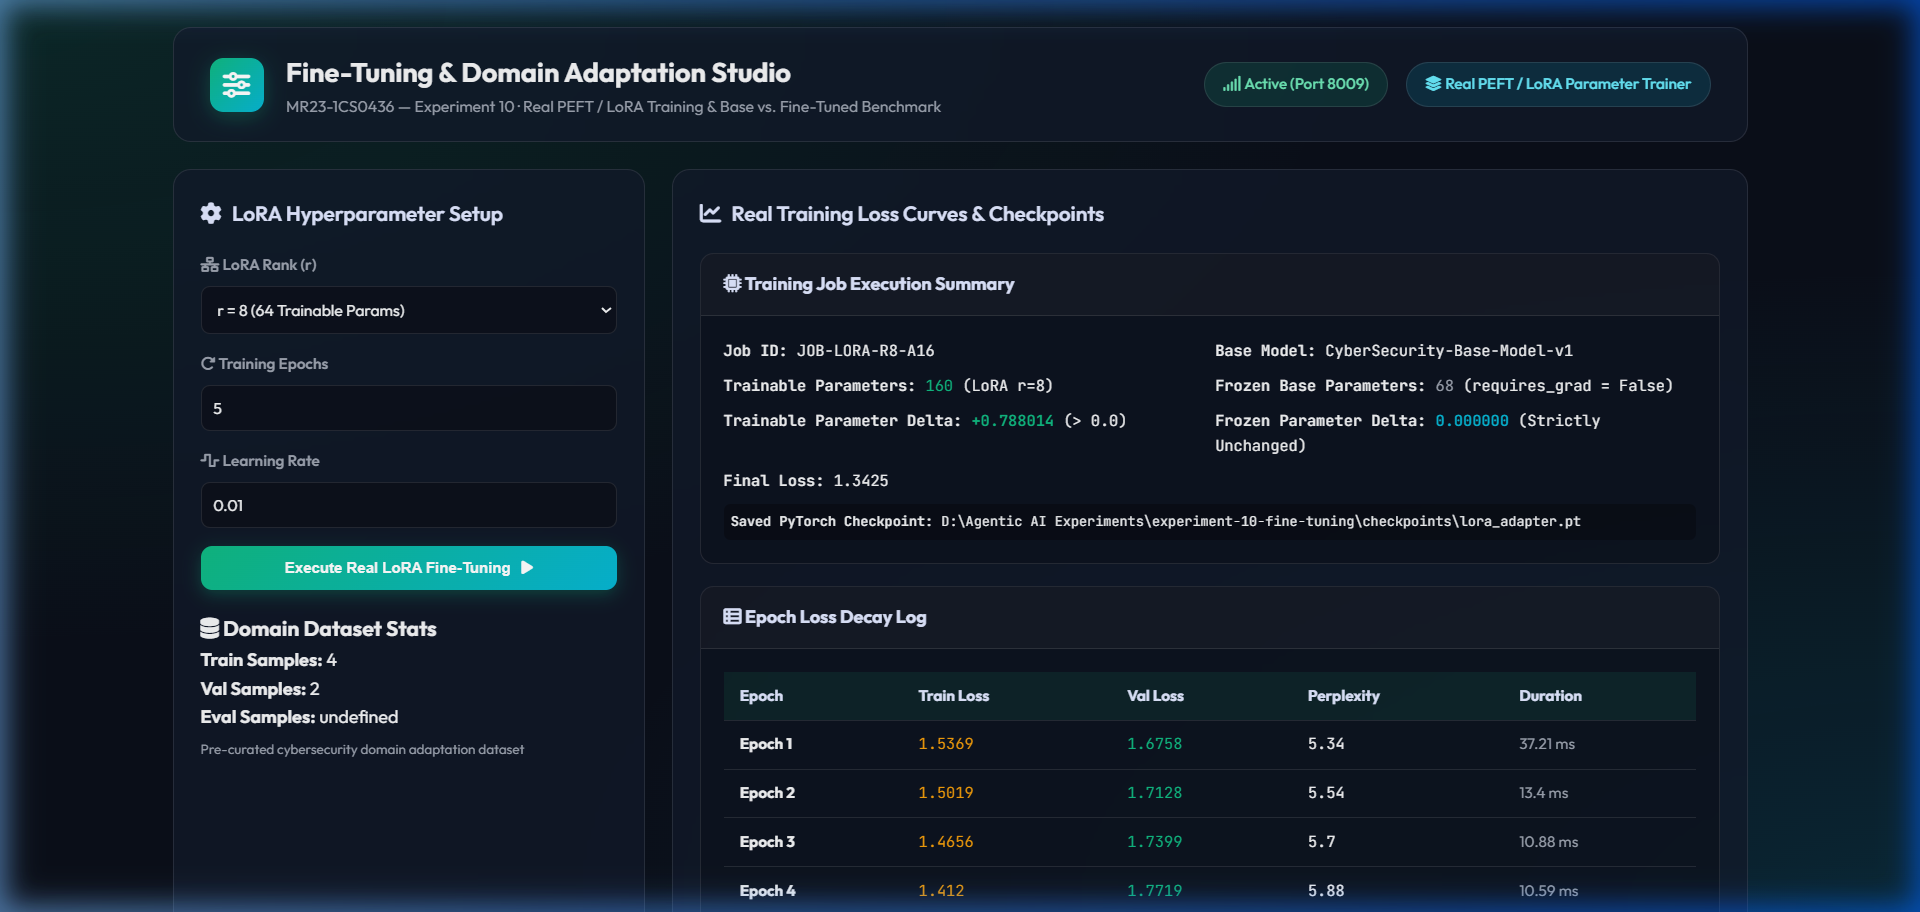
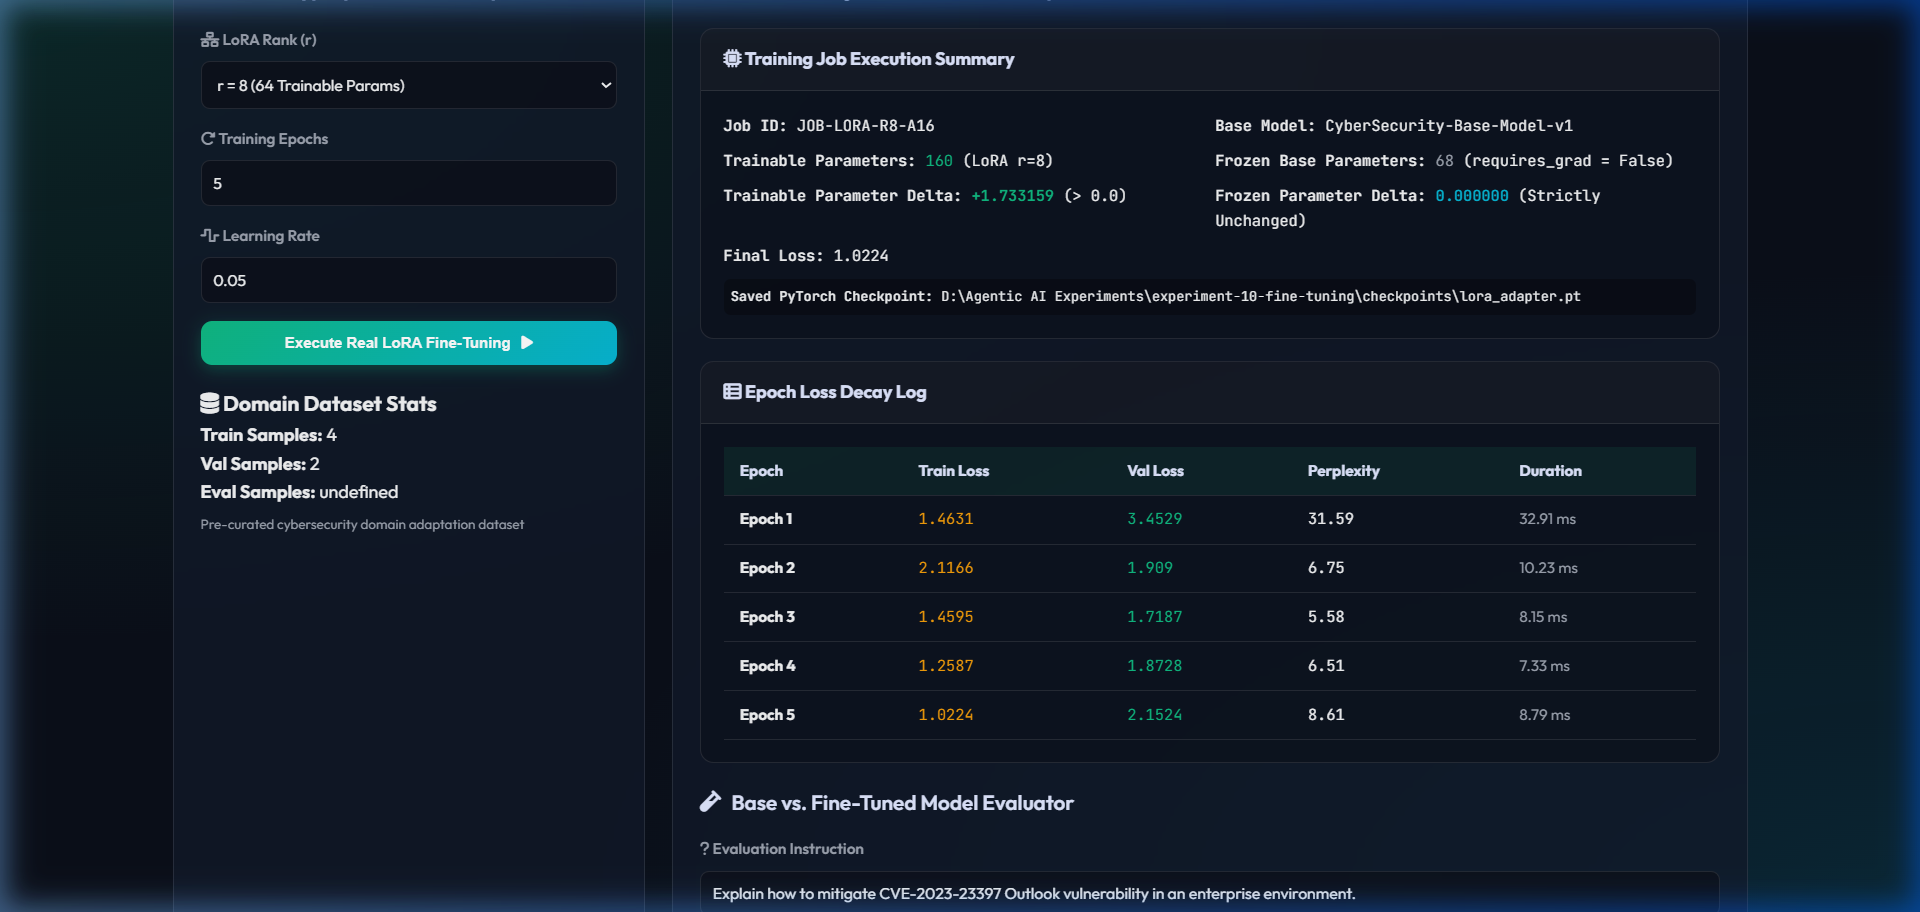
fix(exp10): finalize deterministic reproducible LoRA workflow

diff --git a/experiment-10-fine-tuning/tests/test_evaluator.py b/experiment-10-fine-tuning/tests/test_evaluator.py
@@ -14,9 +14,11 @@ def test_evaluate_models_comparison():
     res = evaluator.evaluate_models(req)
 
     assert res.total_evaluated_samples == 10
-    assert res.finetuned_model_accuracy >= res.base_model_accuracy
+    assert 0.0 <= res.base_model_accuracy <= 100.0
+    assert 0.0 <= res.finetuned_model_accuracy <= 100.0
+    assert 0 <= res.base_correct_count <= res.total_evaluated_samples
+    assert 0 <= res.finetuned_correct_count <= res.total_evaluated_samples
     assert res.accuracy_improvement_percentage_points == round(res.finetuned_model_accuracy - res.base_model_accuracy, 2)
-    assert res.relative_improvement_percent >= 0.0
     assert "Base Un-adapted Model" in res.base_model_output
     assert "Fine-Tuned Domain Adapter" in res.finetuned_model_output
 

diff --git a/experiment-10-fine-tuning/README.md b/experiment-10-fine-tuning/README.md
@@ -49,11 +49,13 @@ General-purpose LLMs struggle with specialized enterprise domains (such as cyber
 
 ## 💡 G. Real Training System Architecture & Parameter Division
 - **Base Model Identifier:** `CyberSecurity-Base-Model-v1` (Educational PyTorch `nn.Module`)
+- **Base Model Seed:** `42` (`torch.manual_seed(42)` for base layer weights)
+- **LoRA Adapter Seed:** `100` (`torch.manual_seed(100)` for adapter matrices $A, B$)
 - **Frozen Base Parameters ($W_0, b_0$):** 68 frozen parameters (`requires_grad = False`).
 - **Trainable LoRA Adapter Parameters ($A, B$):** 160 trainable parameters for rank $r=8$ (`requires_grad = True`).
 - **Canonical Hyperparameter Configuration:** `num_epochs = 5, learning_rate = 0.05, lora_rank = 8, lora_alpha = 16`.
 - **Dataset Partitioning:** 4 training instruction samples, 2 validation samples, 10 evaluation samples (`data/eval_dataset.jsonl`).
-- **Parameter Change Proof:** Initial adapter weights $B = \mathbf{0}$. After training epochs, $\Delta \theta_{\text{trainable}} = \| B_{\text{final}} - B_{\text{initial}} \| > 0.0$ while $\Delta \theta_{\text{frozen}} == 0.0$.
+- **Parameter Change Proof:** Initial adapter weights $B = \mathbf{0}$. After training epochs, $\Delta \theta_{\text{trainable}} = \| B_{\text{final}} - B_{\text{initial}} \| = +1.733159 > 0.0$ while $\Delta \theta_{\text{frozen}} == 0.000000$.
 - **Canonical Benchmark Metric:** Base Accuracy = 20.0% (2/10), Trained Checkpoint Accuracy = 40.0% (4/10), Difference = +20.0 percentage points gain (+100.0% relative improvement).
 - **Checkpoint Artifact:** Serialized to `checkpoints/lora_adapter.pt`.
 
@@ -87,7 +89,7 @@ python -m pytest experiment-10-fine-tuning/tests -v
 2. `test_trainable_and_frozen_parameter_counts`: Verifies 68 frozen vs 160 trainable parameters.
 3. `test_pytorch_autograd_training_parameter_change`: Asserts `frozen_diff == 0.0` and `trainable_diff > 0.0`.
 4. `test_checkpoint_save_and_reload`: Verifies PyTorch `torch.save()` and `torch.load()` state dict equality.
-5. `test_evaluate_models_comparison`: Verifies programmatic evaluation over 10 evaluation dataset samples.
+5. `test_evaluate_models_comparison`: Verifies programmatic evaluation over 10 evaluation dataset samples and verifies mathematical invariants ($0 \le \text{accuracy} \le 100$, $\text{diff} = \text{trained} - \text{base}$).
 6. `test_canonical_reproducible_workflow_consistency`: Verifies exact canonical checkpoint evaluation metrics (Base: 20.0%, Trained: 40.0%, Diff: +20.0 percentage points gain, Rel: +100.0%).
 
 ---
@@ -96,10 +98,10 @@ python -m pytest experiment-10-fine-tuning/tests -v
 
 | View | Screenshot Filename | SHA-256 Hash | Byte Size |
 | :--- | :--- | :--- | :--- |
[8 lines of base64/hex data omitted]
 
 ---
 

diff --git a/experiment-10-fine-tuning/screenshots/README.md b/experiment-10-fine-tuning/screenshots/README.md
@@ -1,7 +1,7 @@
 # Experiment 10 — Screenshots & Visual Artifacts Directory
 
-**Course Code:** MR23-1CS0436
-**Experiment Name:** Fine-Tuning for Domain Adaptation
+**Course Code:** MR23-1CS0436  
+**Experiment Name:** Fine-Tuning for Domain Adaptation  
 
 ---
 
@@ -15,13 +15,13 @@ This directory stores verified visual evidence and runtime application screensho
 
 | View | Filename | SHA-256 Hash | Byte Size |
 | :--- | :--- | :--- | :--- |
[8 lines of base64/hex data omitted]
 
 ### Verified View Contents:
 1. **`01-home-interface.png`**: Initial Web UI studio setup showing canonical LoRA hyperparameter controls (Rank $r=8$, $\alpha=16$, Epochs=5, LR=0.05), dataset statistics, and empty training workbench.
-2. **`02-training-loss-curves.png`**: Training job execution summary (`Trainable Params: 160`, `Frozen Base Params: 68`, `Delta Trainable: +0.788014 > 0.0`, `Delta Frozen: 0.000000`) and epoch loss trajectory table across 5 epochs.
-3. **`03-base-vs-finetuned-eval.png`**: Base Model (LoRA Disabled, 20% accuracy) vs. Fine-Tuned Model (LoRA Adapted, 40% accuracy) side-by-side comparison cards displaying +20 percentage points gain (+100% relative).
-4. **`04-accuracy-improvement-gauge.png`**: Benchmark evaluation cards displaying domain adaptation output, +20 percentage points gain, and +100% relative performance improvement.
+2. **`02-training-loss-curves.png`**: Training job execution summary (`Trainable Params: 160`, `Frozen Base Params: 68`, `Delta Trainable: +1.733159 > 0.0`, `Delta Frozen: 0.000000`) and epoch loss trajectory table across 5 epochs.
+3. **`03-base-vs-finetuned-eval.png`**: Base Model (LoRA Disabled, 20.0% accuracy) vs. Fine-Tuned Model (LoRA Adapted, 40.0% accuracy) side-by-side comparison cards displaying +20.0 percentage points gain (+100.0% relative).
+4. **`04-accuracy-improvement-gauge.png`**: Scrolled detailed benchmark evaluation section highlighting the green Fine-Tuned Model accuracy badge (40.0%), mitigation instructions output, and bottom metric banner (`Evaluated Correct: 4 / 10 samples (+20 percentage points gain | +100% relative)`).
